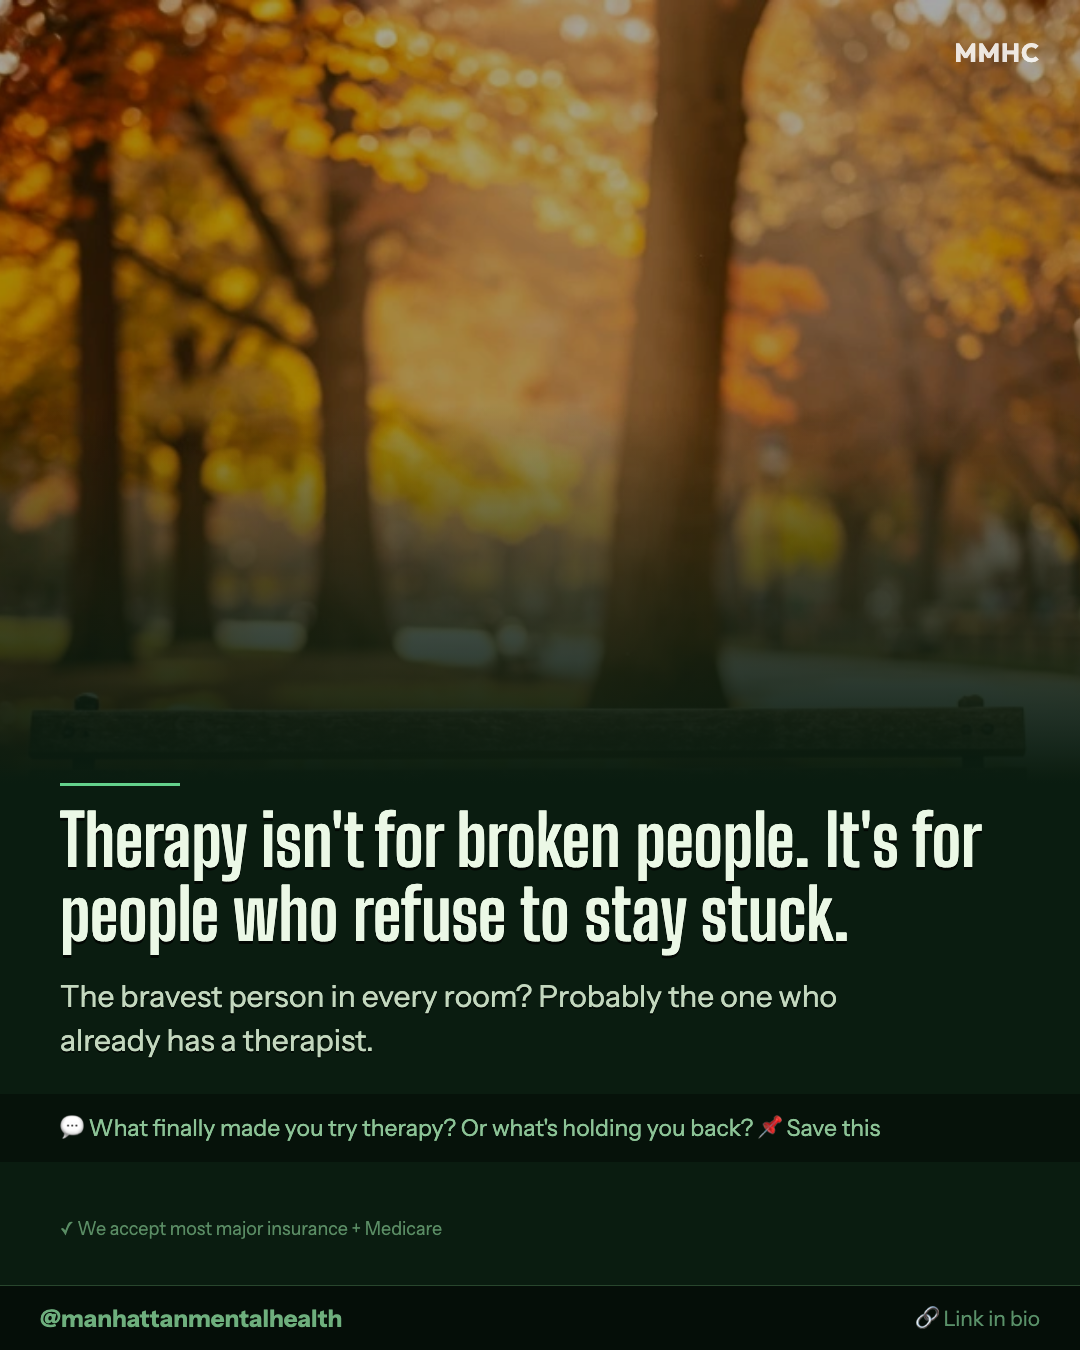
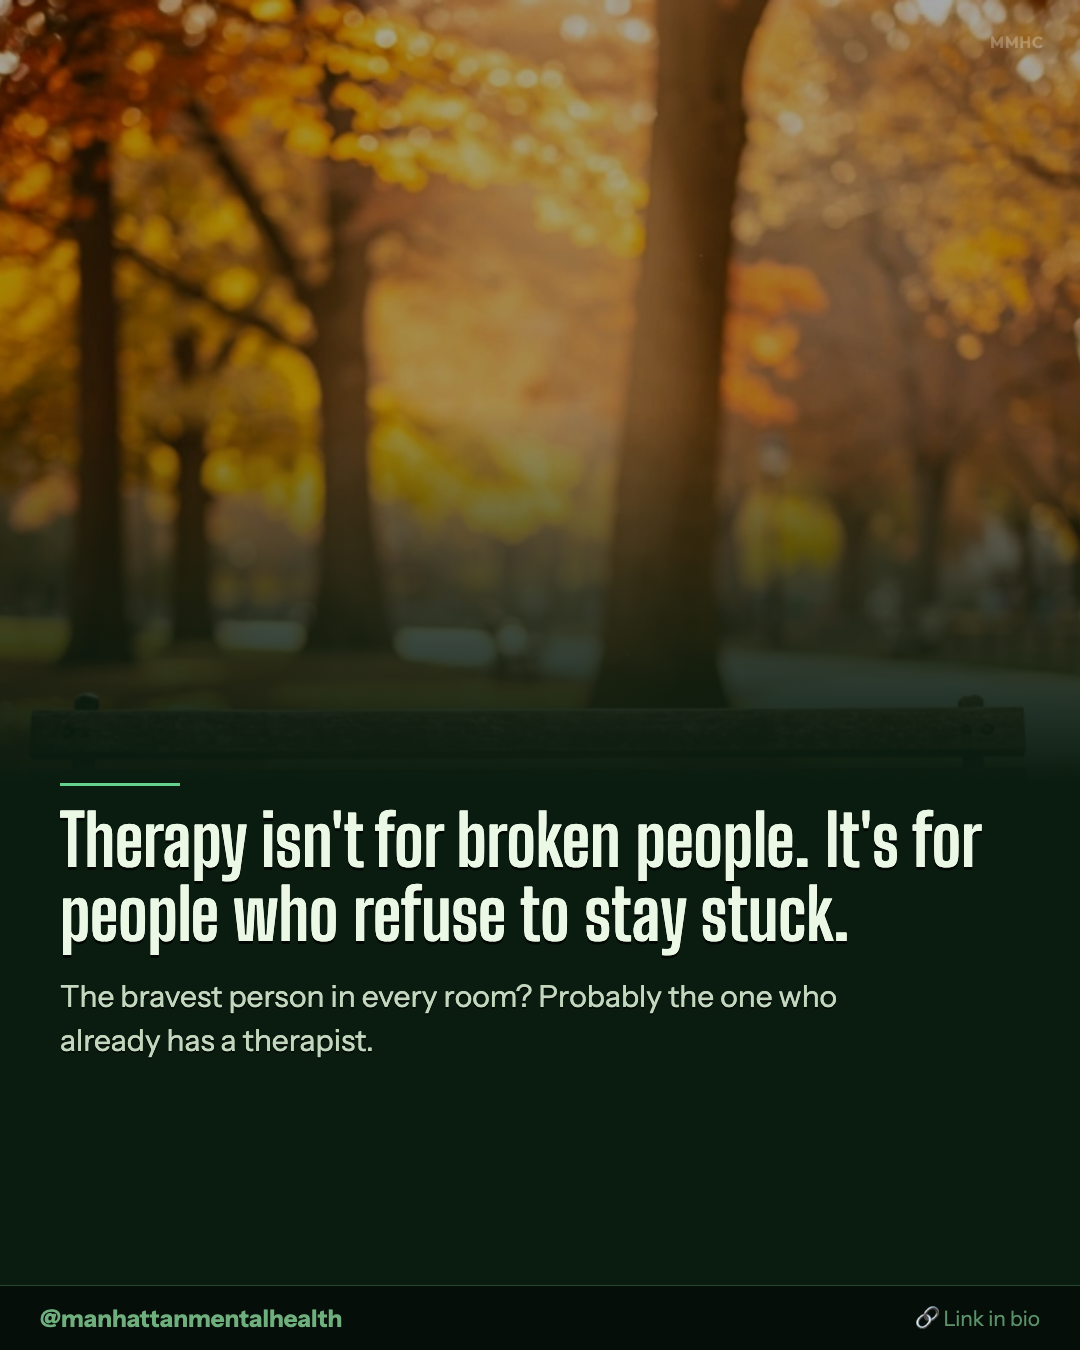
deploy: mmhc-content-factory — 2026-03-04 00:49:27 UTC

diff --git a/index.html b/index.html
@@ -14,7 +14,7 @@ h1{font-size:20px}ul{list-style:none;padding:0}li{padding:8px 0;border-bottom:1p
 <li><a href="finance-tracker/">finance-tracker</a> — Claude Code stress test: 8-file Personal Finance Tracker</li>
 <li><a href="memory-explorer/">memory-explorer</a> — Memory Explorer: searchable markdown file browser</li>
 <li><a href="mmhc-ai-anxiety/">mmhc-ai-anxiety</a> — AI Anxiety page v2 - light hero</li>
-<li><a href="mmhc-content-factory/">mmhc-content-factory</a> — Final organic template: all 8 elements per spec (accent line, CTA bar, insurance badge, handle bar, watermark)</li>
+<li><a href="mmhc-content-factory/">mmhc-content-factory</a> — Final v2: removed CTA bar + insurance badge, subtle watermark, clean layout</li>
 <li><a href="mmhc-hero-c-therapy/">mmhc-hero-c-therapy</a> — Variant C therapy</li>
 <li><a href="mmhc-hero-final/">mmhc-hero-final</a> — Final hero - verified stats, mobile-tight</li>
 <li><a href="mmhc-hero-variants/">mmhc-hero-variants</a> — 3 hero variants for AI anxiety page</li>
@@ -30,4 +30,4 @@ h1{font-size:20px}ul{list-style:none;padding:0}li{padding:8px 0;border-bottom:1p
 <li><a href="video-knowledge-graph/">video-knowledge-graph</a> — Nav bar added</li>
 <li><a href="war-room/">war-room</a> — War Room ops dashboard</li>
 <li><a href="x-intelligence/">x-intelligence</a> — Live X Intelligence data — 2026-03-03 15:37</li>
-</ul><footer style="margin-top:20px;color:#666;font-size:12px">Last updated: 2026-03-04 00:43:03 UTC</footer></body></html>
+</ul><footer style="margin-top:20px;color:#666;font-size:12px">Last updated: 2026-03-04 00:49:27 UTC</footer></body></html>

diff --git a/mmhc-content-factory/README.md b/mmhc-content-factory/README.md
@@ -1,6 +1,6 @@
 # mmhc-content-factory
 
-Deployed: 2026-03-04 00:43:03 UTC
+Deployed: 2026-03-04 00:49:27 UTC
 Source: /Users/davinci/.openclaw/workspace/projects/mmhc-instagram-factory/deploy-source/
-Description: Final organic template: all 8 elements per spec (accent line, CTA bar, insurance badge, handle bar, watermark)
+Description: Final v2: removed CTA bar + insurance badge, subtle watermark, clean layout
 URL: https://davinci282828.github.io/projects/mmhc-content-factory/
